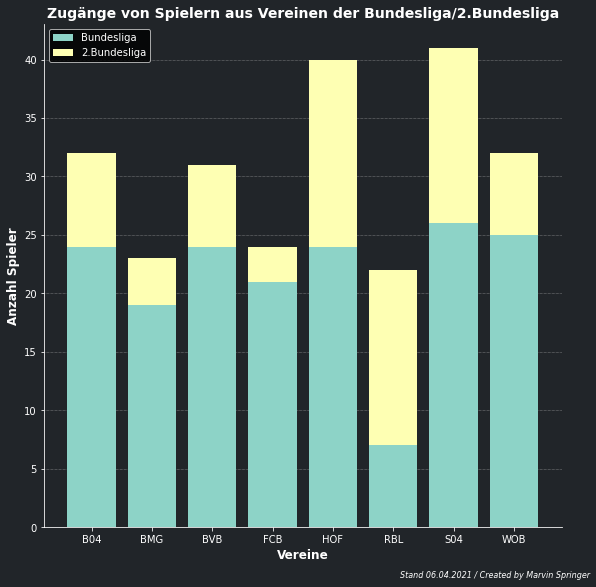
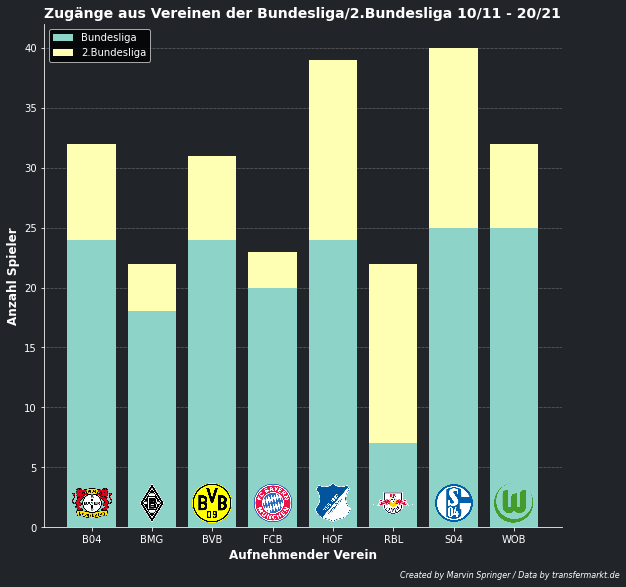
scatter mw-abloese

Changed region(s): [[0.0, 0.0, 0.9966, 1.0], [0.0302, 0.8893, 0.0604, 0.9199]]

diff --git a/bayern-kauft-buli-kaputt/Code/visu-statistics-zugaenge-cl-teams.py b/bayern-kauft-buli-kaputt/Code/visu-statistics-zugaenge-cl-teams.py
@@ -8,11 +8,12 @@ import pandas as pd
 import matplotlib.pyplot as plt
 import matplotlib as mpl
 import numpy as np
-
+from matplotlib.offsetbox import OffsetImage, AnnotationBbox
 abs_path = "C:/Users/Marvin/Desktop/Portfolio/soccer/bayern-kauft-buli-kaputt/buli-cl-teams-zugaenge.csv"
+img_base_path = "C:/Users/Marvin/Desktop/Portfolio/soccer/buli-logos/"
 
 df = pd.read_csv(abs_path)
-
+df = df.loc[df["Saison"] != 2021]
 de_liga = ["Bundesliga", "2. Bundesliga"]
 de_liga2 = ["Bundesliga", "2. Bundesliga", "3. Liga","A-Junioren Bundesliga Nord/Nordost","A-Junioren Bundesliga Süd/Südwest","A-Junioren Bundesliga West","Regionalliga West (bis 11/12)",
             "Regionalliga West","Regionalliga Südwest","Regionalliga Nord (bis 11/12)","Regionalliga Nord","Regionalliga Bayern"]
@@ -66,11 +67,16 @@ def anzahl_zugaenge_buli(df):
     ax.bar(x=team_list, height=anz2, bottom=anz1, label='2.Bundesliga',zorder=2)
     # ax.scatter(x, y, s=120, color=filler, edgecolors=background, alpha=0.3, lw=0.5, zorder=2)           
     
-    ax.set_xlabel("Vereine", fontfamily=title_font, fontweight="bold", fontsize=12, color=textColor)
+    ax.set_xlabel("Aufnehmender Verein", fontfamily=title_font, fontweight="bold", fontsize=12, color=textColor)
     ax.set_ylabel("Anzahl Spieler", fontfamily=title_font, fontweight="bold", fontsize=12, color=textColor)
     
     # ax.tick_params(axis="both",length=3)
-    
+        
+    for x0,j in enumerate(team_list):
+        path = img_base_path + j+".png"
+        ab = AnnotationBbox(OffsetImage(plt.imread(path),zoom=0.1), (x0, 2), frameon=False)
+        #(zoom=0.15), (0.4,0.5), frameon=False)
+        ax.add_artist(ab)
     # ax_ranges = [0, 65000000]
     # ax.set_xlim(ax_ranges)
     # ax.set_ylim(ax_ranges)
@@ -95,15 +101,18 @@ def anzahl_zugaenge_buli(df):
     # for i,name in enumerate(labels):
     #     t = ax.text(x[i],y[i]-1000000,labels[i],color=textColor,fontsize=12, ha="center", fontfamily=body_font)
         
-    ax.set_title("Zugänge von Spielern aus Vereinen der Bundesliga/2.Bundesliga", fontsize=14, fontweight="bold", color = textColor)
-    fig.text(0.7, -0.01, "Stand 06.04.2021 / Created by Marvin Springer",
+    ax.set_title("Zugänge aus Vereinen der Bundesliga/2.Bundesliga 10/11 - 20/21", fontsize=14, fontweight="bold", color = textColor)
+    fig.text(0.7, -0.01, "Created by Marvin Springer / Data by transfermarkt.de",
         fontstyle="italic",fontsize=8, fontfamily=body_font, color=textColor)
 
     plt.tight_layout()
     plt.show()
-anzahl_zugaenge_buli(anzahl_zugaenge)
+# anzahl_zugaenge_buli(anzahl_zugaenge)
+x_de = sum_marktwert_ablöse_zugaenge_de["Marktwert"].tolist()
+y_de = sum_marktwert_ablöse_zugaenge_de["Ablöse"].tolist()
+names_de = sum_marktwert_ablöse_zugaenge_de.index.tolist()
 
-def make_scatter_plot(x, y, labels):
+def scatter_plot_mw_abloese(x, y, labels):
     fig, ax = plt.subplots(figsize=(8,8))
     fig.set_facecolor(background)
     ax.patch.set_facecolor(background)
@@ -111,23 +120,29 @@ def make_scatter_plot(x, y, labels):
 
     
     ax.grid(ls="dotted",lw="0.5",color="lightgrey", zorder=1)
-    ax.scatter(x, y, s=120, color=filler, edgecolors=background, alpha=0.3, lw=0.5, zorder=2)           
+    ax.scatter(x, y, s=120, color=filler, edgecolors=background, alpha=0.3, lw=0.5, zorder=2)
+    for x, y, j in zip(x, y, team_list):
+        path = img_base_path + j+".png"
+        ab = AnnotationBbox(OffsetImage(plt.imread(path),zoom=0.05), (x, y), frameon=False)
+        #(zoom=0.15), (0.4,0.5), frameon=False)
+        ax.add_artist(ab)
+        t = ax.text(x,y+20000000,j,color=textColor,fontsize=12, ha="center", fontfamily=body_font)
     
     ax.set_xlabel("Marktwert (in €)", fontfamily=title_font, fontweight="bold", fontsize=16, color=textColor)
     ax.set_ylabel("Ablöse (in €)", fontfamily=title_font, fontweight="bold", fontsize= 16, color=textColor)
     
     ax.tick_params(axis="both",length=3)
     
-    ax_ranges = [0, 65000000]
+    ax_ranges = [0, 450000000]
     ax.set_xlim(ax_ranges)
     ax.set_ylim(ax_ranges)
     ax.plot(ax.get_xlim(), ax.get_ylim(), ls="--", c=textColor)
     ax.set_ylim(ax.get_ylim()[::-1])
     
-    # xlabels = ['{:,.0f}'.format(x) + ' Mio.' for x in ax.get_xticks()/1000000]
-    # ax.set_xticklabels(xlabels)
-    # ylabels = ['{:,.0f}'.format(y) + ' Mio.' for y in ax.get_xticks()/1000000]
-    # ax.set_yticklabels(ylabels)
+    xlabels = ['{:,.0f}'.format(x) + ' Mio.' for x in ax.get_xticks()/1000000]
+    ax.set_xticklabels(xlabels)
+    ylabels = ['{:,.0f}'.format(y) + ' Mio.' for y in ax.get_xticks()/1000000]
+    ax.set_yticklabels(ylabels)
     
     ax = plt.gca()
     
@@ -138,26 +153,14 @@ def make_scatter_plot(x, y, labels):
             ax.spines[s].set_visible(False)
         else:
             ax.spines[s].set_color(textColor)
-    
-    for i,name in enumerate(labels):
-        t = ax.text(x[i],y[i]-1000000,labels[i],color=textColor,fontsize=12, ha="center", fontfamily=body_font)
         
-    fig.text(0.13,1.02,"Überschrift", fontsize=14, fontweight="bold", color = textColor)
-    fig.text(0.05, -0.025, "Created by Marvin Springer / Data by transfermarkt.de",
-        fontstyle="italic",fontsize=9, fontfamily=body_font, color=textColor)
+    ax.set_title("Summierter Marktwert/Ablöse für Zugänge \naus Vereinen der Bundesliga/2.Bundesliga 10/11 - 20/21", fontsize=14, fontweight="bold", color = textColor)
+    fig.text(0.6, -0.01, "Created by Marvin Springer / Data by transfermarkt.de",
+        fontstyle="italic",fontsize=8, fontfamily=body_font, color=textColor)
 
     plt.tight_layout()
     plt.show()
 
 #marktwert-ablöse-vereine
-x_de = sum_marktwert_ablöse_zugaenge_de["Marktwert"].tolist()
-y_de = sum_marktwert_ablöse_zugaenge_de["Ablöse"].tolist()
-names_de = sum_marktwert_ablöse_zugaenge_de.index.tolist()
-make_scatter_plot(x_de, y_de, names_de)
-
-#marktwert-ablöse-spieler
-x_player = de_zugaenge["Marktwert"].tolist()
-y_player = de_zugaenge["Ablöse"].tolist()
-names_player = de_zugaenge["Name"].tolist()
-make_scatter_plot(x_player, y_player, names_player)
+scatter_plot_mw_abloese(x_de, y_de, names_de)
 

diff --git a/bayern-kauft-buli-kaputt/Code/fcb-buli-zugaenge-plot.py b/bayern-kauft-buli-kaputt/Code/fcb-buli-zugaenge-plot.py
@@ -2,22 +2,22 @@ import pandas as pd
 import matplotlib as mpl 
 import matplotlib.pyplot as plt
 import numpy as np
-
+from matplotlib.offsetbox import OffsetImage, AnnotationBbox
 from PIL import Image
 
-df = pd.read_csv("bayern-zugang.csv")
+df = pd.read_csv("C:/Users/Marvin/Desktop/Portfolio/soccer/bayern-kauft-buli-kaputt/bayern-zugang.csv")
 
 
-df_buli = df[df["Liga"] == "Bundesliga"]
-df_buli_transfers = df_buli[df_buli["Transfer-Art"]=="Transfer"]
-df_buli_transfers = pd.read_csv("fcb-buli-transfer-zugaenge.csv")
-
+# df_buli = df[(df["Liga"] == "Bundesliga") & (df["Saison"] != "21/22")]
+# df_buli_transfers = df_buli[df_buli["Transfer-Art"]=="Transfer"]
+df_buli_transfers = pd.read_csv("C:/Users/Marvin/Desktop/Portfolio/soccer/bayern-kauft-buli-kaputt/fcb-buli-transfer-zugaenge.csv")
+df_buli_transfers = df_buli_transfers[(df_buli_transfers["Saison"] != "21/22")]
 x = df_buli_transfers["Marktwert"].tolist()
 y = df_buli_transfers["Ablöse"].tolist()
 names = df_buli_transfers["Name"].tolist()
 
 
-ax_ranges = [-1000000, 61000000]
+ax_ranges = [-1000000, 55000000]
 team = "FC Bayern München"
 
 title_font = "Alegreya Sans"
@@ -41,11 +41,11 @@ ax.grid(ls="dotted",lw="0.5",color="lightgrey", zorder=1)
 ax.scatter(x, y, s=120, color=filler, edgecolors=background, alpha=0.3, lw=0.5, zorder=2)
 
 
-for i in [0,1,3,4,5,6,8,9,11,13,19,20]:
+for i in [0,2,3,4,5,7,8,9,10,12,18,19]:
     t = ax.text(x[i],y[i]-1000000,names[i],color=textColor,fontsize=12, ha="center", fontfamily=body_font)
 
 
-fig.text(0.13,1.02,"{}s Bundesliga Zugänge von 10/11 - 21/22".format(team), fontsize=14, fontweight="bold", color = textColor)        
+fig.text(0.13,1.02,"{}s Zugänge aus der Bundesliga, 10/11 - 20/21".format(team), fontsize=14, fontweight="bold", color = textColor)        
 
 
 ax.set_xlabel("Marktwert (in €)", fontfamily=title_font, fontweight="bold", fontsize=16, color=textColor)
@@ -74,11 +74,13 @@ for s in spines:
 
 ax2 = fig.add_axes([0,0.95,0.15,0.15]) # badge
 ax2.axis("off")
-img = Image.open("FC-Bayern-Munchen-Logo.png")
-ax2.imshow(img)
 
-fig.text(0.05, -0.025, "Created by Marvin Springer / Data by transfermarkt.de",
-        fontstyle="italic",fontsize=9, fontfamily=body_font, color=textColor)
+ab = AnnotationBbox(OffsetImage(plt.imread("C:/Users/Marvin/Desktop/Portfolio/soccer/buli-logos/fcb.png"), zoom=0.15), (0.4,0.5), frameon=False)
+ax2.add_artist(ab)
+# img = Image.open("C:/Users/Marvin/Desktop/Portfolio/soccer/buli-logos/fcb.png")
+# ax2.imshow(img)
+fig.text(0.6, -0.01, "Created by Marvin Springer / Data by transfermarkt.de",
+        fontstyle="italic",fontsize=8, fontfamily=body_font, color=textColor)
 
 plt.tight_layout()
 plt.show()
